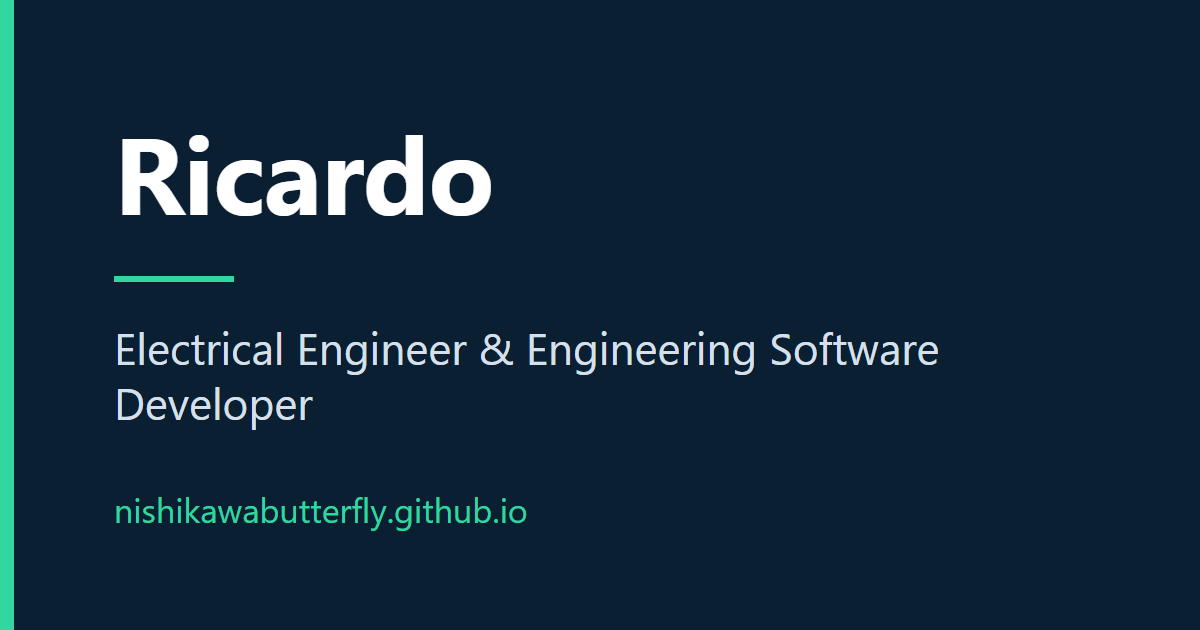
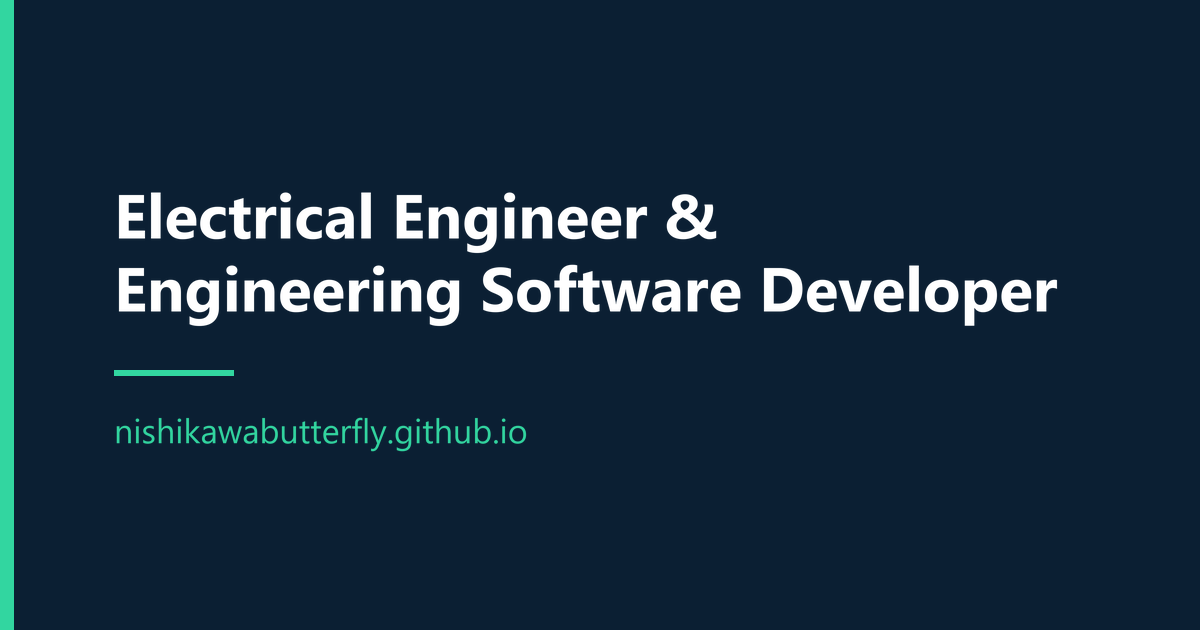
Remove the personal name from the site

Changed region(s): [[0.0925, 0.2111, 0.8942, 0.7238], [0.0925, 0.7841, 0.4317, 0.8444]]

diff --git a/index.html b/index.html
@@ -3,11 +3,11 @@
   <head>
     <meta charset="utf-8">
     <meta name="viewport" content="width=device-width, initial-scale=1">
-    <title>Ricardo — Electrical Engineer &amp; Engineering Software Developer</title>
-    <meta name="description" content="Ricardo, electrical engineer. Tested software for data-center electrical systems, critical facilities, energy storage and quantitative analysis, published under NishikawaButterfly.">
+    <title>Electrical Engineer &amp; Engineering Software Developer</title>
+    <meta name="description" content="Electrical engineer. Tested software for data-center electrical systems, critical facilities, energy storage and quantitative analysis, published under NishikawaButterfly.">
     <link rel="canonical" href="https://nishikawabutterfly.github.io/">
-    <meta property="og:title" content="Ricardo — Electrical Engineer &amp; Engineering Software Developer">
-    <meta property="og:description" content="Ricardo, electrical engineer. Tested software for data-center electrical systems, critical facilities, energy storage and quantitative analysis, published under NishikawaButterfly.">
+    <meta property="og:title" content="Electrical Engineer &amp; Engineering Software Developer">
+    <meta property="og:description" content="Electrical engineer. Tested software for data-center electrical systems, critical facilities, energy storage and quantitative analysis, published under NishikawaButterfly.">
     <meta property="og:type" content="website">
     <meta property="og:url" content="https://nishikawabutterfly.github.io/">
     <meta property="og:image" content="https://nishikawabutterfly.github.io/assets/social-card.png">
@@ -20,14 +20,13 @@
       "@graph": [
         {
           "@type": "Person",
-          "name": "Ricardo",
-          "alternateName": "NishikawaButterfly",
+          "name": "NishikawaButterfly",
           "url": "https://nishikawabutterfly.github.io/",
           "jobTitle": "Electrical Engineer"
         },
         {
           "@type": "WebSite",
-          "name": "Ricardo — Electrical Engineer & Engineering Software Developer",
+          "name": "Electrical Engineer & Engineering Software Developer",
           "url": "https://nishikawabutterfly.github.io/"
         }
       ]
@@ -59,8 +58,7 @@
     <!-- /shell:header -->
 
     <main id="main" class="wrap">
-      <h1>Ricardo</h1>
-      <p class="role">Electrical Engineer &amp; Engineering Software Developer</p>
+      <h1>Electrical Engineer &amp; Engineering Software Developer</h1>
       <p class="lede">I build tested software for data-center electrical systems, critical facilities, energy storage and quantitative analysis.</p>
       <p class="identity">Public work published under <a href="https://github.com/NishikawaButterfly">NishikawaButterfly</a>.</p>
       <p>Most of my day job is around data centers and energy projects, and I write software to take the tedious parts out of that work. Every project here has a tagged release, and all of the sample data is made up. Seven projects live on <a href="https://github.com/NishikawaButterfly">GitHub</a>, and three of them have live demos you can open right now. These are the three I'd show first.</p>

diff --git a/about.html b/about.html
@@ -41,7 +41,7 @@
 
     <main id="main" class="wrap">
       <h1>About</h1>
-      <p>I'm Ricardo, an electrical engineer. My working world is data centers and energy: capacity and redundancy, asset registers moving between teams, dispatch and financing questions, the operational discipline that keeps critical facilities running. The software on this site exists because parts of that world are tedious and error-prone in exactly the ways software is good at — checking a register field by field, redoing capacity arithmetic without slipping a unit, walking a financial scenario through every convention the same way twice. The projects are based on recurring engineering problems, operational workflows, or questions I wanted to examine more rigorously.</p>
+      <p>I'm an electrical engineer. My working world is data centers and energy: capacity and redundancy, asset registers moving between teams, dispatch and financing questions, the operational discipline that keeps critical facilities running. The software on this site exists because parts of that world are tedious and error-prone in exactly the ways software is good at — checking a register field by field, redoing capacity arithmetic without slipping a unit, walking a financial scenario through every convention the same way twice. The projects are based on recurring engineering problems, operational workflows, or questions I wanted to examine more rigorously.</p>
 
       <h2 id="how-things-are-built">How things are built here</h2>
       <p>A few habits run through every repository, and they come from engineering practice rather than software fashion:</p>
